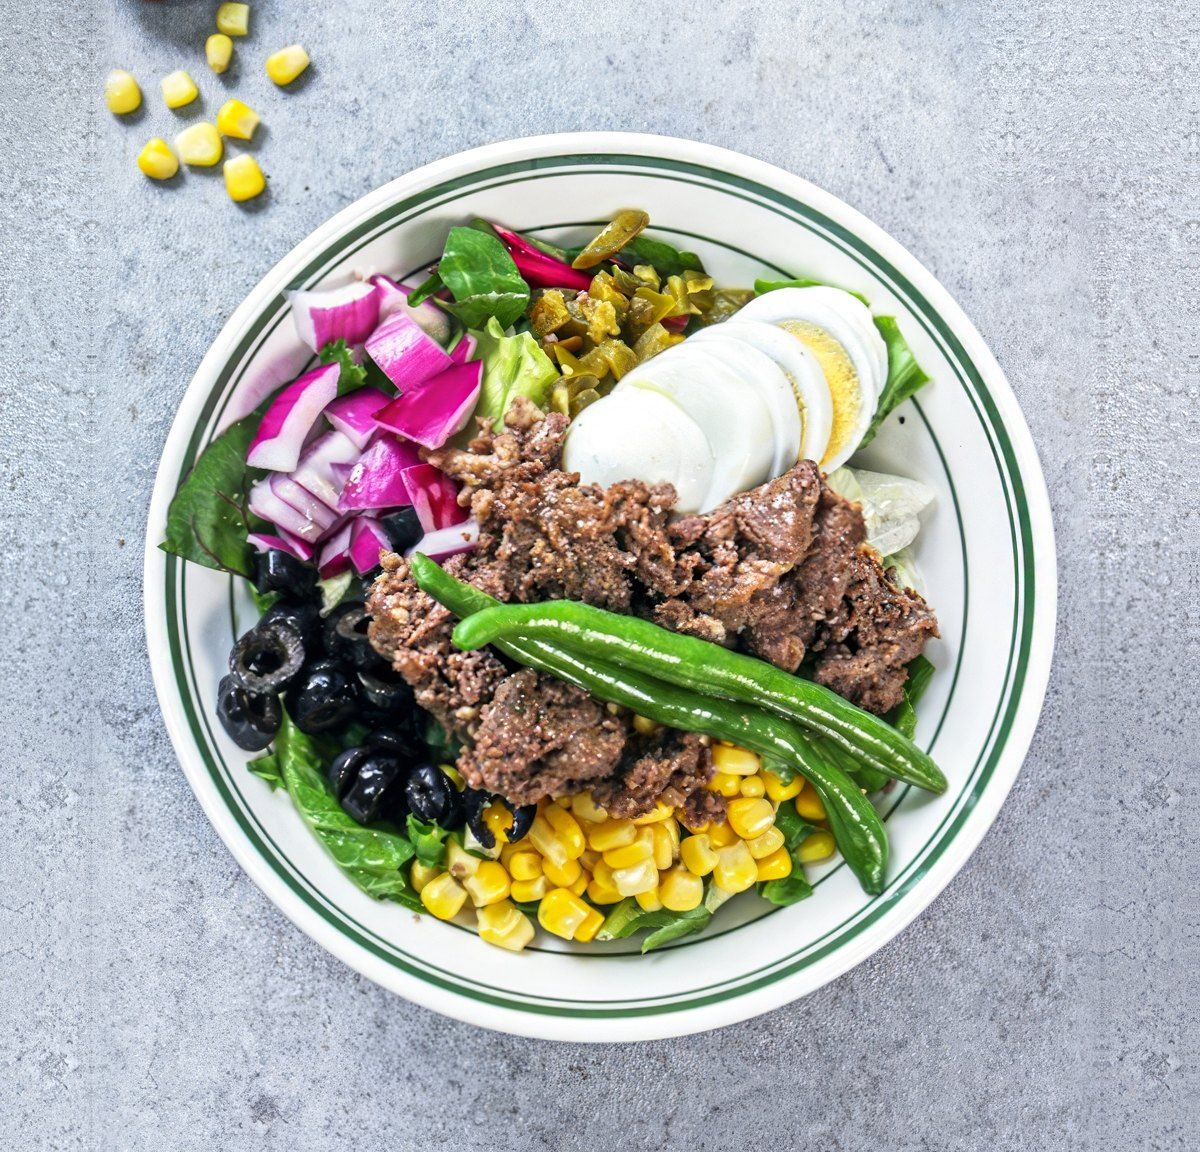
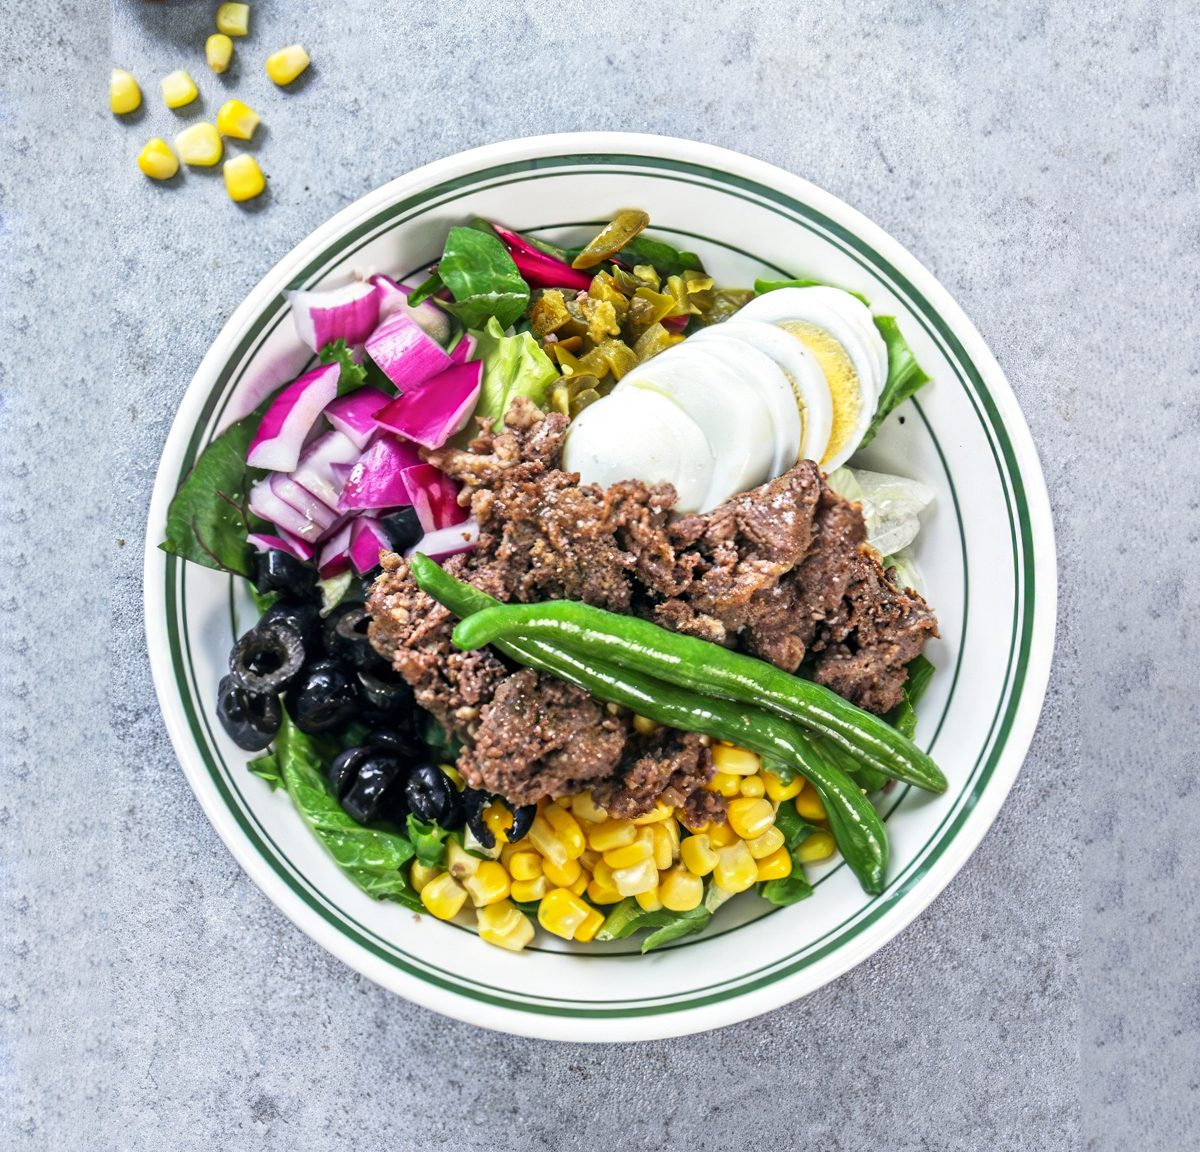
메인: 샐러드 배너 양옆 바탕 자연스럽게 다시 보정
Claude-Session: https://claude.ai/code/session_01DwyddZgiucmm5voQ99xKXh

Changed region(s): [[0.8017, 0.0, 1.0, 1.0], [0.0, 0.0, 0.0925, 1.0]]

diff --git a/tkbb-main.js b/tkbb-main.js
@@ -434,7 +434,8 @@
 		var pz = '';
 		if (/연필깎이/.test(nm + ' ' + (tg.title || ''))) { o.img = 'https://takkobebe-link.vercel.app/img/pencil/banner.jpg'; pz = ' pz'; }
 		// 샐러드 배너도 전용 사진 (2026-10-15 사용자 요청). 배너 칸 비율(1:0.96)에 맞춰 접시 둘레 바탕을 늘려 둔 사진
-		else if (/샐러드/.test(nm + ' ' + (tg.title || ''))) o.img = 'https://takkobebe-link.vercel.app/img/salad/banner.jpg';
+		// ?v=2 : 양옆 바탕을 실제 돌 질감 조각으로 다시 채운 사진 (2026-10-15) — 폰에 남은 예전 사진 대신 새로 받게
+		else if (/샐러드/.test(nm + ' ' + (tg.title || ''))) o.img = 'https://takkobebe-link.vercel.app/img/salad/banner.jpg?v=2';
 		var box = o.img
 		    ? '<div class="ib' + pz + '" style="background-image:url(\'' + o.img + '\')">'
 		      +   '<i class="bg l"></i><i class="bg r"></i>'
